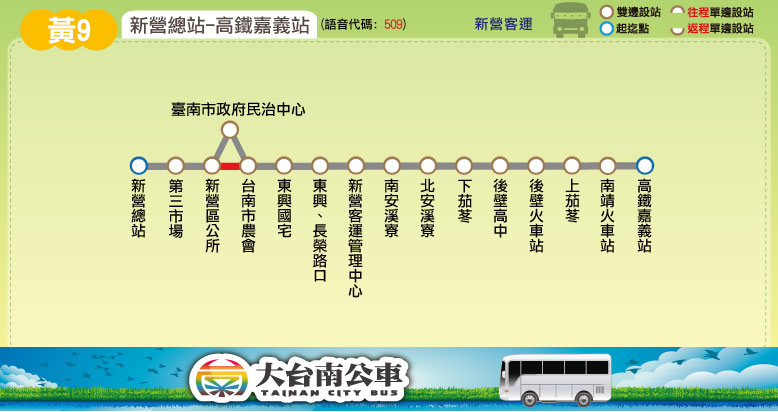
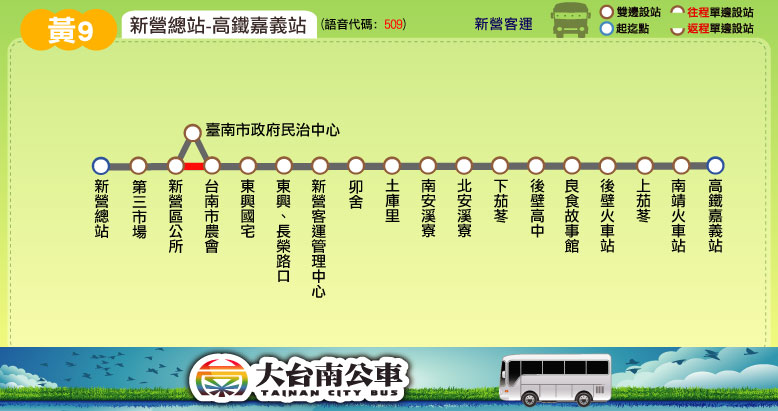
新增站點：黃幹線、黃9、黃10  更動時刻表：黃幹線

diff --git a/route/fare_and_time/yellow.js b/route/fare_and_time/yellow.js
@@ -1,22 +1,20 @@
 yellow_interval_name = ["白河","下秀祐","營房","烏樹林","安溪寮","新營","副產","柳營","龜子港","麻豆寮","下營","中營","麻豆"];
-yellow_interval_stop = [
+yellow_interval_stop = [ // 2015.08.31 checked
 ["白河站","白河商工","白河漁市場","白河加油站"], // 白河
 ["頂秀祐","下秀祐"], // 下秀祐
 ["營房"], // 營房
 ["蘭花園區","烏樹林"], // 烏樹林
-["安溪寮","市場前","頂安社區","南安溪寮","土庫里"], // 安溪寮
-["新營客運管理中心","東興、長榮路口","東興國宅","臺南市農會","新營公所","文化中心",
+["安溪寮","市場前","頂安社區","南安溪寮"], // 安溪寮
+["土庫里","卯舍","新營客運管理中心","東興、長榮路口","東興國宅","臺南市農會","新營公所","文化中心",
 "新營國小","第三市場","新營站","三商","中山路","第一市場","真武殿","南光中學"], // 新營
 ["副產","實驗所"], // 副產
 ["柳營奇美醫院","鳳和中學","柳營火車站","中華電信","柳營","新榮中學","東又悅公司"], // 柳營
 ["嘉南駕訓班","龜子港"], // 龜子港
 ["麻豆寮","洲子","嘉鴻公司"], // 麻豆寮
-["下營國中","農會超市","下營公所","下營廟前"], // 下營
-["給水站","中營路口","中營"], // 中營
+["下營國中","農會超市","下營公所","下營廟前","給水站"], // 下營
+["中營路口","中營"], // 中營
 ["五王廟前","麻豆公所","興中、民生路口","一商前","戲院前","圓環","小埤頭","新樓醫院","果菜市場"] // 麻豆
 ];
-yellow_stop_time_consume = [0,1,1,2,3,4,5,6,7,9,10,11,12,13,14,15,17,19,21,22,23,24,25,27,28,29,30,31,32,33,34,35,36,38,40,42,
-43,44,45,47,48,49,50,51,52,54,57,59,60,67,68,70,72,73,75,78,80];
 yellow_fare = [
 [26],
 [26,26],
@@ -38,12 +36,12 @@ yellow_fare = [
 yellow_main_stop_name = ["白河","蘭花園區","新營","柳營<br />奇美醫院","柳營<br />火車站","麻豆寮","下營公所","一商前","果菜市場"];
 yellow_main_stop_time_consume = [0, 9, 25, 33, 36, 46, 53, 71, 80];
 yellow_important_stop = [0, 2, 8]; // 白河, 新營, 果菜市場
-yellow_time_go = [["06:00",[1]],["06:20",0,2,[1]],["06:30",[1]],["06:45",0,3,[1]],["07:15",0,2,[1]],["07:30",[1]],
+yellow_time_go = [["06:00",[1]],["06:20",0,2,[1]],["06:30",[1]],["06:45",0,3,[1]],["07:25",0,2,[1]],["07:30",[1]],
 ["08:00",0,2],["08:30"],["09:00",0,2],["09:30"],["10:00",0,2],["10:30"],["11:00",0,2],["11:30"],["12:00",0,2],
 ["12:30"],["13:00",0,2],["13:30"],["14:00",0,2],["14:30"],["15:00",0,2],["15:30"],["16:00",0,2],["16:30"],
 ["17:00",0,2],["17:30",['繞',1]],["18:00",[1]],["18:15",0,2,[1]],["18:30",0,2,[1]],["19:00",[1]],["20:00",[1]]
 ];
-yellow_time_return = [["06:20",2,0,[1]],["06:45",2,0,[1]],["06:50",2,0,[1]],["06:00",['繞',1]],["06:30",[1]],["07:55",2,0],
+yellow_time_return = [["06:20",2,0,[1]],["06:45",2,0,[1]],["07:00",2,0,[1]],["06:00",['繞',1]],["06:30",[1]],["07:55",2,0],
 ["07:30"],["08:55",2,0],["08:30"],["09:55",2,0],["09:30"],["10:55",2,0],["10:30"],["11:55",2,0],["11:30"],["12:55",2,0],
 ["12:30"],["13:55",2,0],["13:30"],["14:55",2,0],["14:30"],["15:55",2,0],["15:30"],["16:30",2,0],["17:00",2,0],["16:40",[1]],
 ["17:40",2,0,[1]],["17:30",[1]],["18:00",[1]],["19:00",[1]],["20:00",[1]]

diff --git a/route/fare_and_time/yellow_9.js b/route/fare_and_time/yellow_9.js
@@ -1,13 +1,12 @@
 yellow_9_interval_name = ["新營","南安溪寮","後壁火車站","上茄苳","南靖火車站","高鐵嘉義站"];
-yellow_9_interval_stop = [
-["新營站","新營區公所","臺南市政府民治中心","臺南市農會","東興國宅","東興、長榮路口","新營客運管理中心"], // 新營
-["南安溪寮","北安溪寮"], // 南安溪寮
-["下茄苳","後壁高中","後壁火車站"], // 後壁火車站
+yellow_9_interval_stop = [ // 2015.08.31 checked
+["新營站","第三市場","新營區公所","臺南市政府民治中心","臺南市農會","東興國宅","東興、長榮路口","新營客運管理中心","卯舍","土庫里"], // 新營
+["南安溪寮","北安溪寮","下茄苳"], // 南安溪寮
+["後壁高中","良食故事館","後壁火車站"], // 後壁火車站
 ["上茄苳"], // 上茄苳
 ["南靖火車站"], // 南靖火車站
 ["高鐵嘉義站"] // 高鐵嘉義站
 ];
-yellow_9_stop_time_consume = [0,2,3,5,7,9,11,13,15,16,17,21,24,40];
 yellow_9_fare = [
 [26],
 [26,26],

diff --git a/route/fare_and_time/yellow_10.js b/route/fare_and_time/yellow_10.js
@@ -1,7 +1,7 @@
 yellow_10_interval_name = ["泰安宮","後壁<br />火車站","大路墘","顯濟宮","土溝里","白河","河東","大林","大林<br />路口","檨仔坑","石廟仔","籠仔內","六重溪"];
-yellow_10_interval_stop = [ // 20150607 checked
+yellow_10_interval_stop = [ // 2015.08.31 checked
 ["泰安宮","嘉苳里","下茄苳"], // 泰安宮
-["後壁高中","後壁火車站","後壁國小"], // 後壁火車站
+["後壁高中","良食故事館","後壁火車站","後壁國小"], // 後壁火車站
 ["大路墘"], // 大路墘
 ["嘉民里","顯濟宮","永安國小"], // 顯濟宮
 ["土溝里","下庄仔"], // 土溝里
